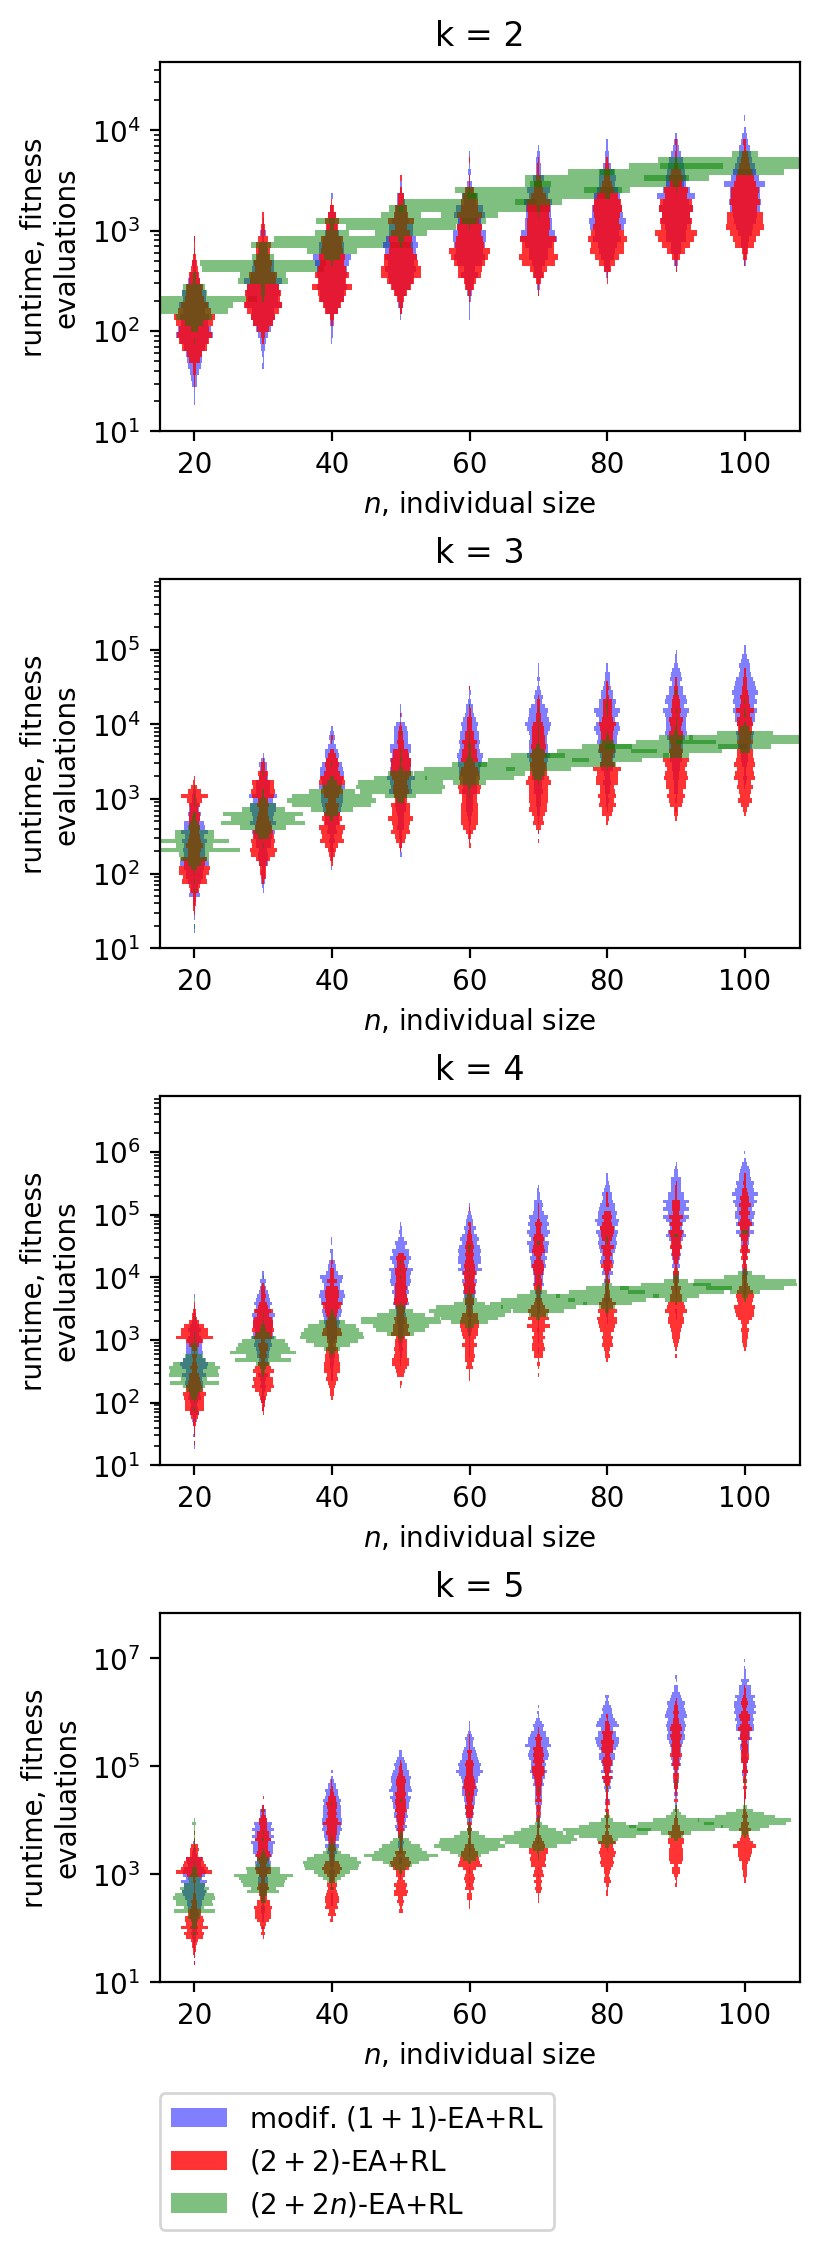
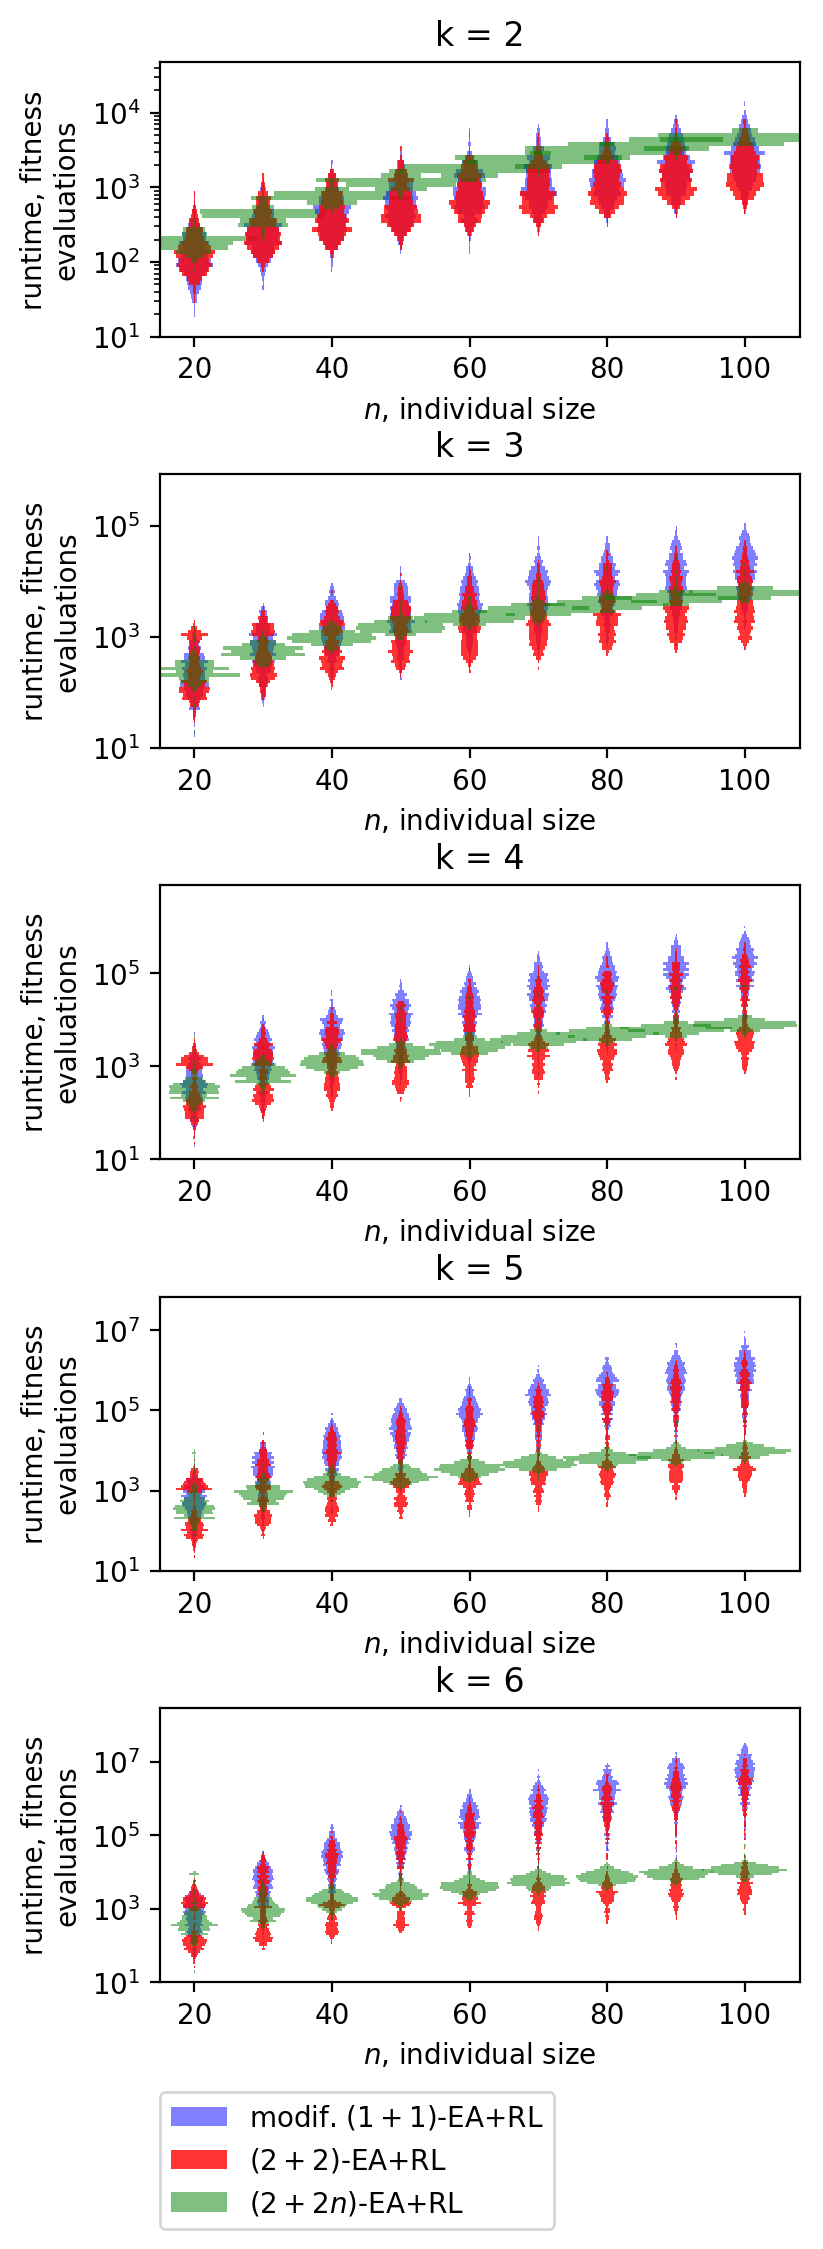
final plots

diff --git a/populational/leading constant.py b/populational/leading constant.py
@@ -1,0 +1,41 @@
+from math import e
+from matplotlib import pyplot as plt
+
+
+with open('data/earl_2p2n_xdkom_merged.txt', 'r') as f:
+    earl_2p2n_xdkom = [[float(s) for s in line.split()] for line in f.readlines()]
+
+with open('data/earl_2p2n_xdkomzm_merged.txt', 'r') as f:
+    earl_2p2n_xdkomzm = [[float(s) for s in line.split()] for line in f.readlines()]
+
+earl_2p2n_xdkom_theory = [[n / k * (e / (e - 1) + (2 * e / (e - 1)) ** k / 2 + k + 450) for n in range(20, 101, 10)] for k in range(2, 7)]
+earl_2p2n_xdkomzm_theory = [[n / k * (5 * e / (3 * (e - 1)) + (3 ** k + 2 ** k) * (e / (e - 1)) ** k / 2 + 2 * k + 900) for n in range(20, 101, 10)] for k in range(2, 7)]
+
+
+nrange = range(20, 101, 10)
+ratio_xdkom = [[earl_2p2n_xdkom_theory[k][n] / earl_2p2n_xdkom[k][n] for n in range(9)] for k in range(5)]
+ratio_xdkomzm = [[earl_2p2n_xdkomzm_theory[k][n] / earl_2p2n_xdkomzm[k][n] for n in range(9)] for k in range(5)]
+
+
+print('$k$ & minimal ratio for \XdKOM & maximal ratio for \XdKOM & minimal ratio for \XdKOMZM & maximal ratio for \XdKOMZM \\\\')
+for k in range(5):
+    print('{} & {:.2f} & {:.2f} & {:.2f} & {:.2f} \\\\'.format(k + 2, min(ratio_xdkom[k]), max(ratio_xdkom[k]), min(ratio_xdkomzm[k]), max(ratio_xdkomzm[k])))
+    # print('xdkom min {} max {}'.format(min(ratio_xdkom[k]), max(ratio_xdkom[k])))
+    # print('xdkomzm min {} max {}'.format(min(ratio_xdkomzm[k]), max(ratio_xdkomzm[k])))
+    plt.subplot(231 + k)
+    plt.plot(nrange, ratio_xdkom[k], 'bo-', label='(XdivK, OneMax)')
+    plt.plot(nrange, ratio_xdkomzm[k], 'ro-', label='(XdivK, OneMax, ZeroMax)')
+    plt.xlabel('$n$, individual size')
+    plt.ylabel('ratio')
+    plt.title('k = {}'.format(k + 2))
+
+plt.subplots_adjust(wspace=0.4,
+                    hspace=0.6,
+                    left=0,
+                    right=1,
+                    top=0.6,
+                    bottom=0)
+plt.savefig('pic/ratio_appendix.png',
+            bbox_extra_artists=(plt.legend(bbox_to_anchor=(1.05, 1), loc=2, borderaxespad=0.),),
+            bbox_inches='tight',
+            dpi=200)

diff --git a/populational/plots_stat.py b/populational/plots_stat.py
@@ -151,8 +151,8 @@ plt.savefig('pic/histograms.png',
 
 
 
-for k in range(2, 6):
-    plt.subplot(409+k)
+for k in range(2, 7):
+    plt.subplot(509+k)
     for n in range(20, 101, 10):
         violin_histogram(earlmod_1p1_xdkomzm[k][n],
                          color='blue',
@@ -181,13 +181,13 @@ for k in range(2, 6):
     plt.title('k = {}'.format(k))
 
 plt.subplots_adjust(wspace=0.5,
-                    hspace=0.4,
+                    hspace=0.5,
                     left=0,
                     right=0.5,
                     top=2,
                     bottom=0)
 plt.savefig('pic/xdkomzm_hist_appendix.png',
-            bbox_extra_artists=(plt.legend(bbox_to_anchor=(0, -0.3), loc=2, borderaxespad=0.),),
+            # bbox_extra_artists=(plt.legend(bbox_to_anchor=(0, -0.4), loc=2, borderaxespad=0.),),
             bbox_inches='tight',
             dpi=200)
 plt.clf()
@@ -196,8 +196,8 @@ plt.clf()
 
 
 
-for k in range(2, 6):
-    plt.subplot(409+k)
+for k in range(2, 7):
+    plt.subplot(509+k)
     for n in range(20, 101, 10):
         violin_histogram(earl_1p1_xdkom[k][n],
                          color='blue',
@@ -226,13 +226,13 @@ for k in range(2, 6):
     plt.title('k = {}'.format(k))
 
 plt.subplots_adjust(wspace=0.5,
-                    hspace=0.4,
+                    hspace=0.5,
                     left=0,
                     right=0.5,
                     top=2,
                     bottom=0)
 plt.savefig('pic/xdkom_hist_appendix.png',
-            bbox_extra_artists=(plt.legend(bbox_to_anchor=(0, -0.3), loc=2, borderaxespad=0.),),
+            bbox_extra_artists=(plt.legend(bbox_to_anchor=(0, -0.4), loc=2, borderaxespad=0.),),
             bbox_inches='tight',
             dpi=200)
 plt.clf()

diff --git a/populational/plots_mean.py b/populational/plots_mean.py
@@ -85,11 +85,11 @@ plt.savefig('pic/means.png',
 
 for with_zm in True, False:
 
-    for k in range(2, 6):
-        plt.subplot(409 + k)
-        plt.semilogy(n_range[:len(ea_1p1_xdk[-1])], ea_1p1_xdk[-1], 'ro-',
+    for k in range(2, 7):
+        plt.subplot(509 + k)
+        plt.semilogy(n_range[:len(ea_1p1_xdk[k - 2])], ea_1p1_xdk[k - 2], 'ro-',
                      label='$(1 + 1)$-EA')
-        plt.semilogy(n_range, ea_2p2_xdk[-1], 'bs-',
+        plt.semilogy(n_range, ea_2p2_xdk[k - 2], 'bs-',
                      label='$(2 + 2)$-EA')
 
         if not with_zm:
@@ -117,7 +117,7 @@ for with_zm in True, False:
         plt.xlim(15, 105)
 
     plt.subplots_adjust(wspace=0.5,
-                        hspace=0.4,
+                        hspace=0.5,
                         left=0,
                         right=0.5,
                         top=2,
@@ -128,7 +128,7 @@ for with_zm in True, False:
                     dpi=200)
     else:
         plt.savefig('pic/xdkom_evals_appendix.png',
-                    bbox_extra_artists=(plt.legend(bbox_to_anchor=(0, -0.3), loc=2, borderaxespad=0.),),
+                    bbox_extra_artists=(plt.legend(bbox_to_anchor=(0, -0.4), loc=2, borderaxespad=0.),),
                     bbox_inches='tight',
                     dpi=200)
     plt.clf()
